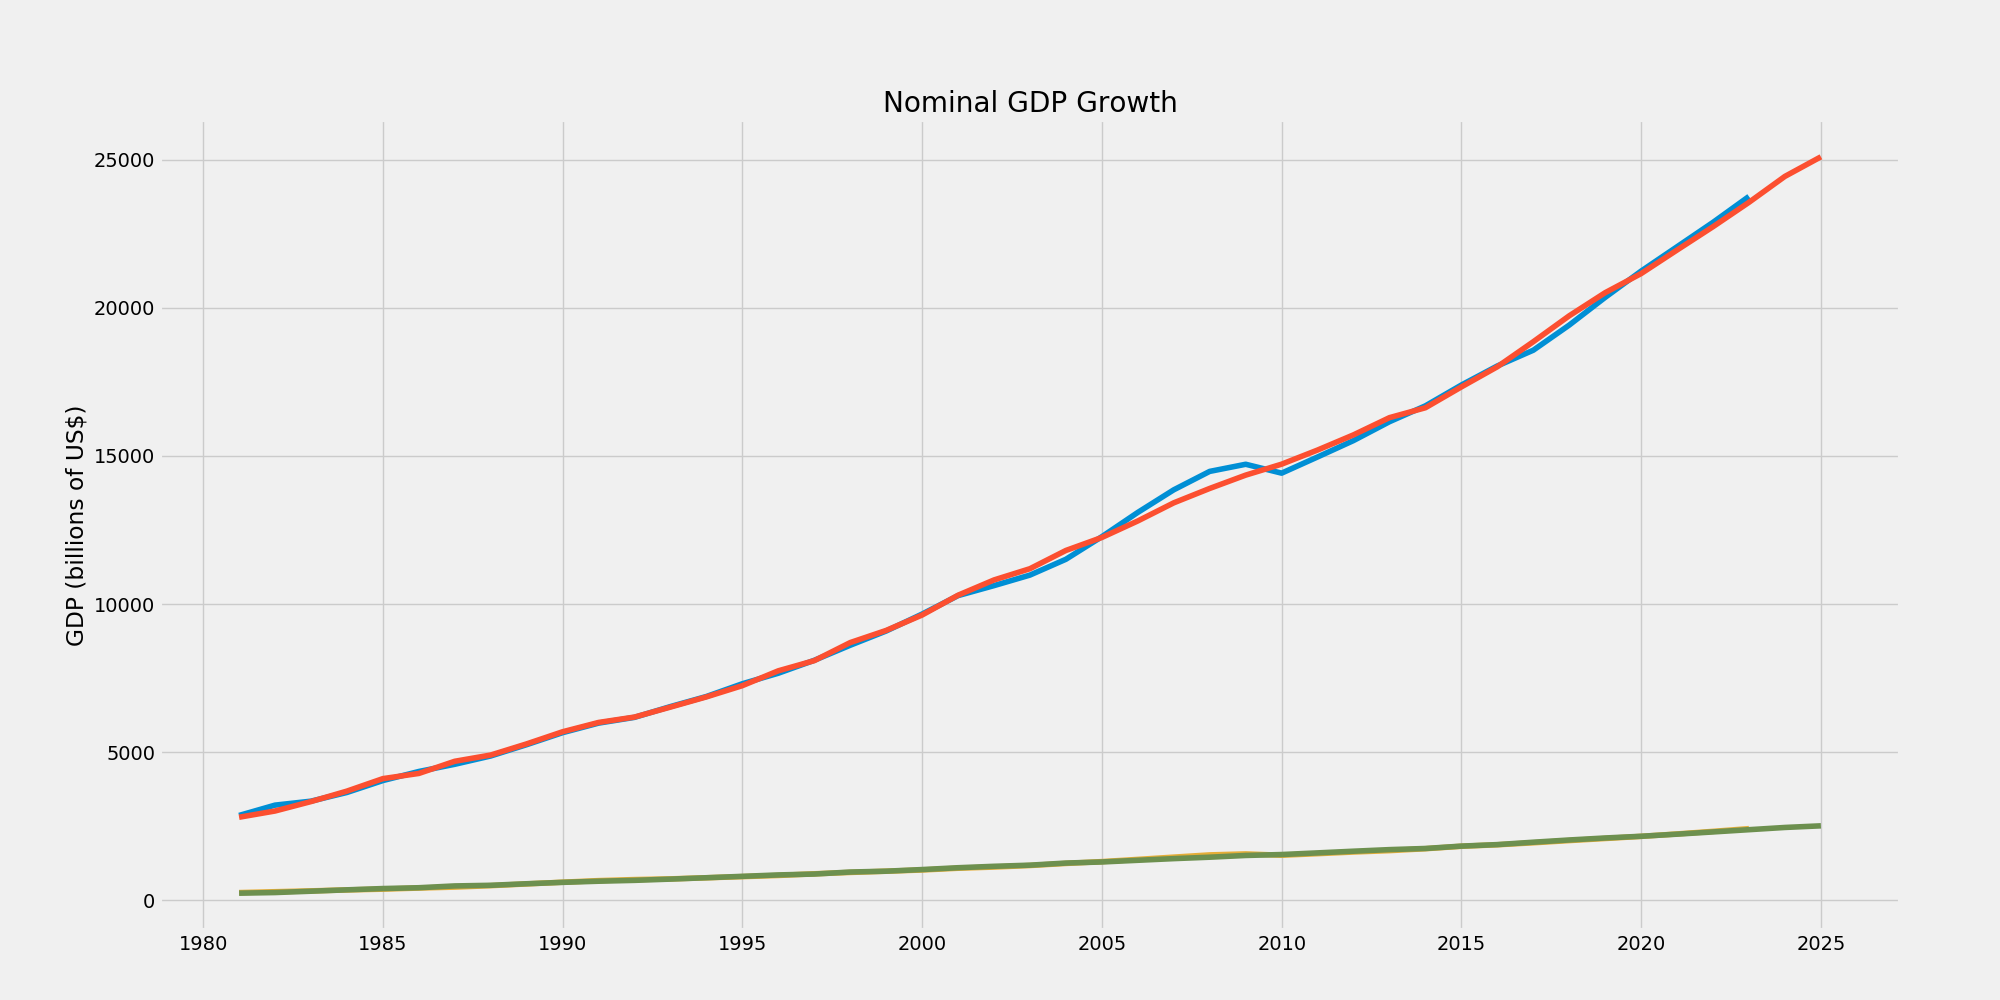
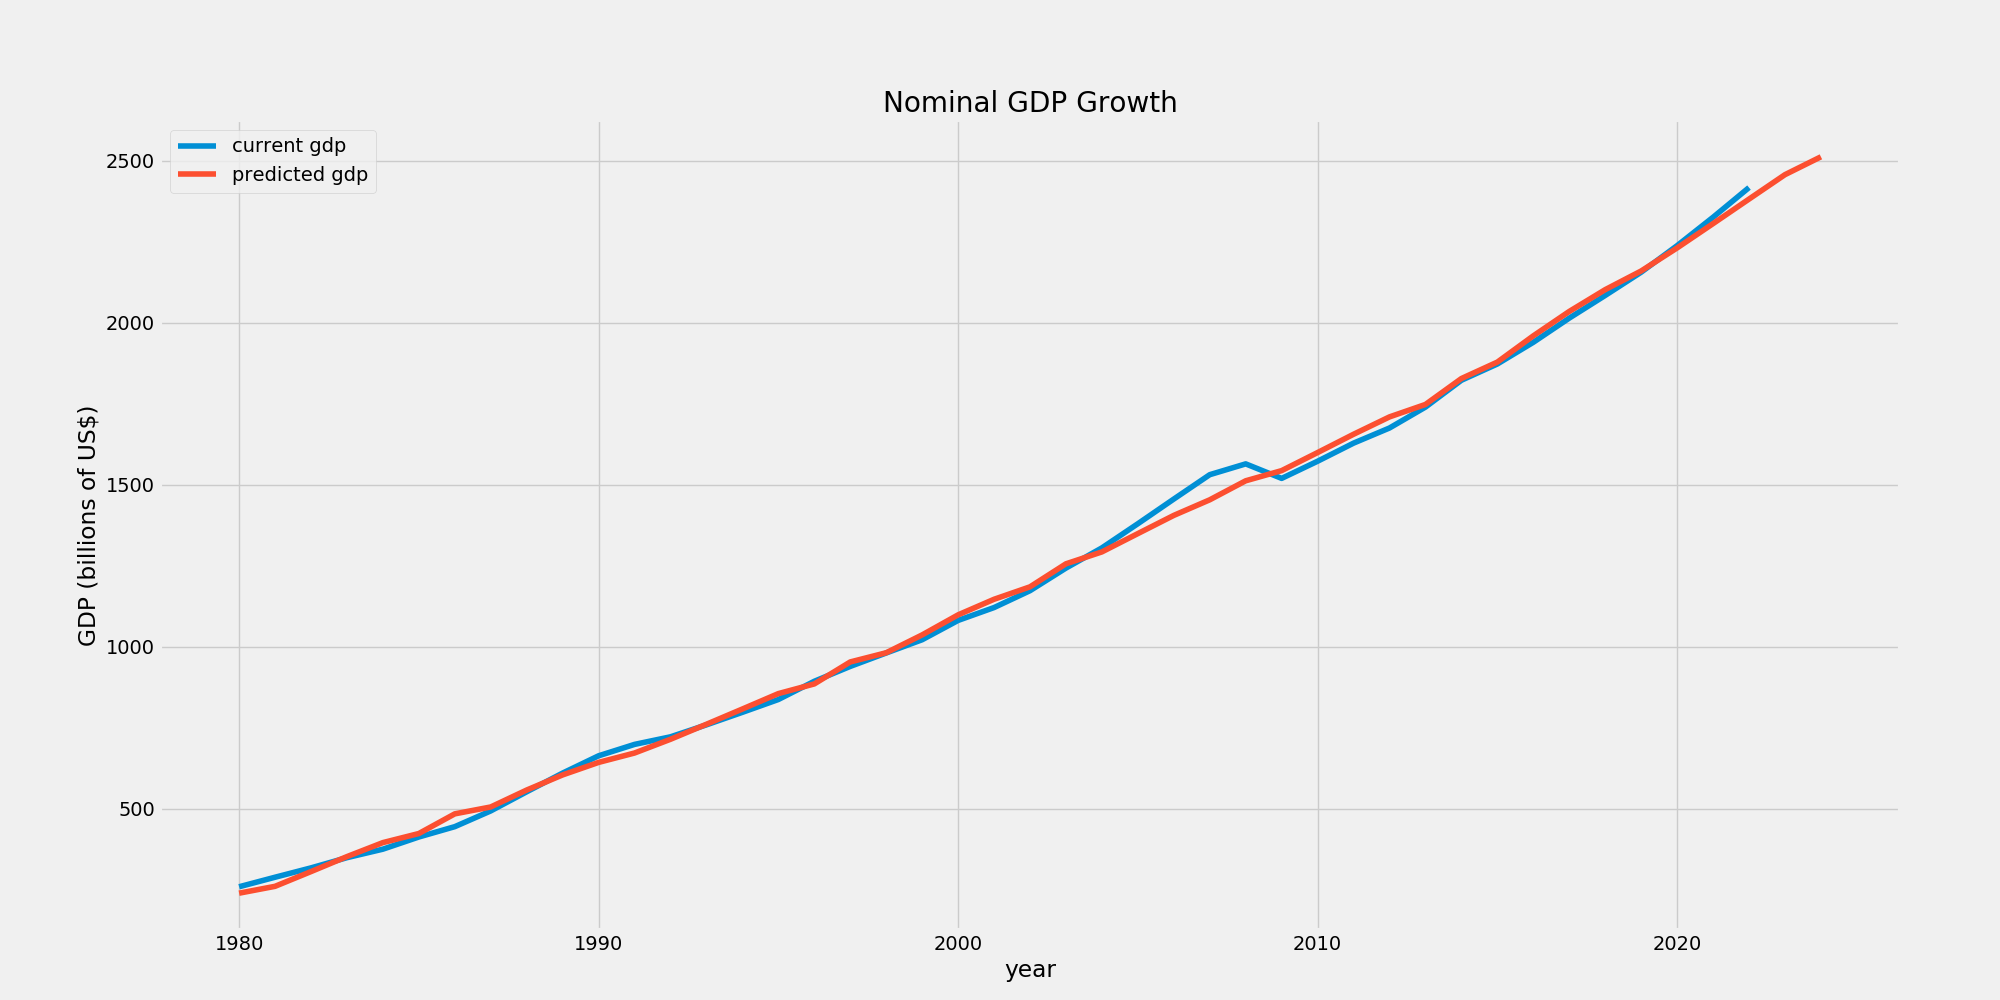
make it better

diff --git a/predict.py b/predict.py
@@ -1,3 +1,5 @@
+import matplotlib
+matplotlib.use('Agg')
 import pandas as pd
 import numpy as np
 import matplotlib.pyplot as plt
@@ -31,9 +33,7 @@ def predict_gdp(country):
     df_plot.columns = ['year', 'current gdp', 'predicted gdp']
     df_plot.set_index('year', inplace=True)
 
-    print(df_plot)
-
-    plt.plot(df_plot)
+    df_plot.plot()
     fig = plt.gcf()
     plt.title('Nominal GDP Growth')
     plt.ylabel('GDP (billions of US$)')
